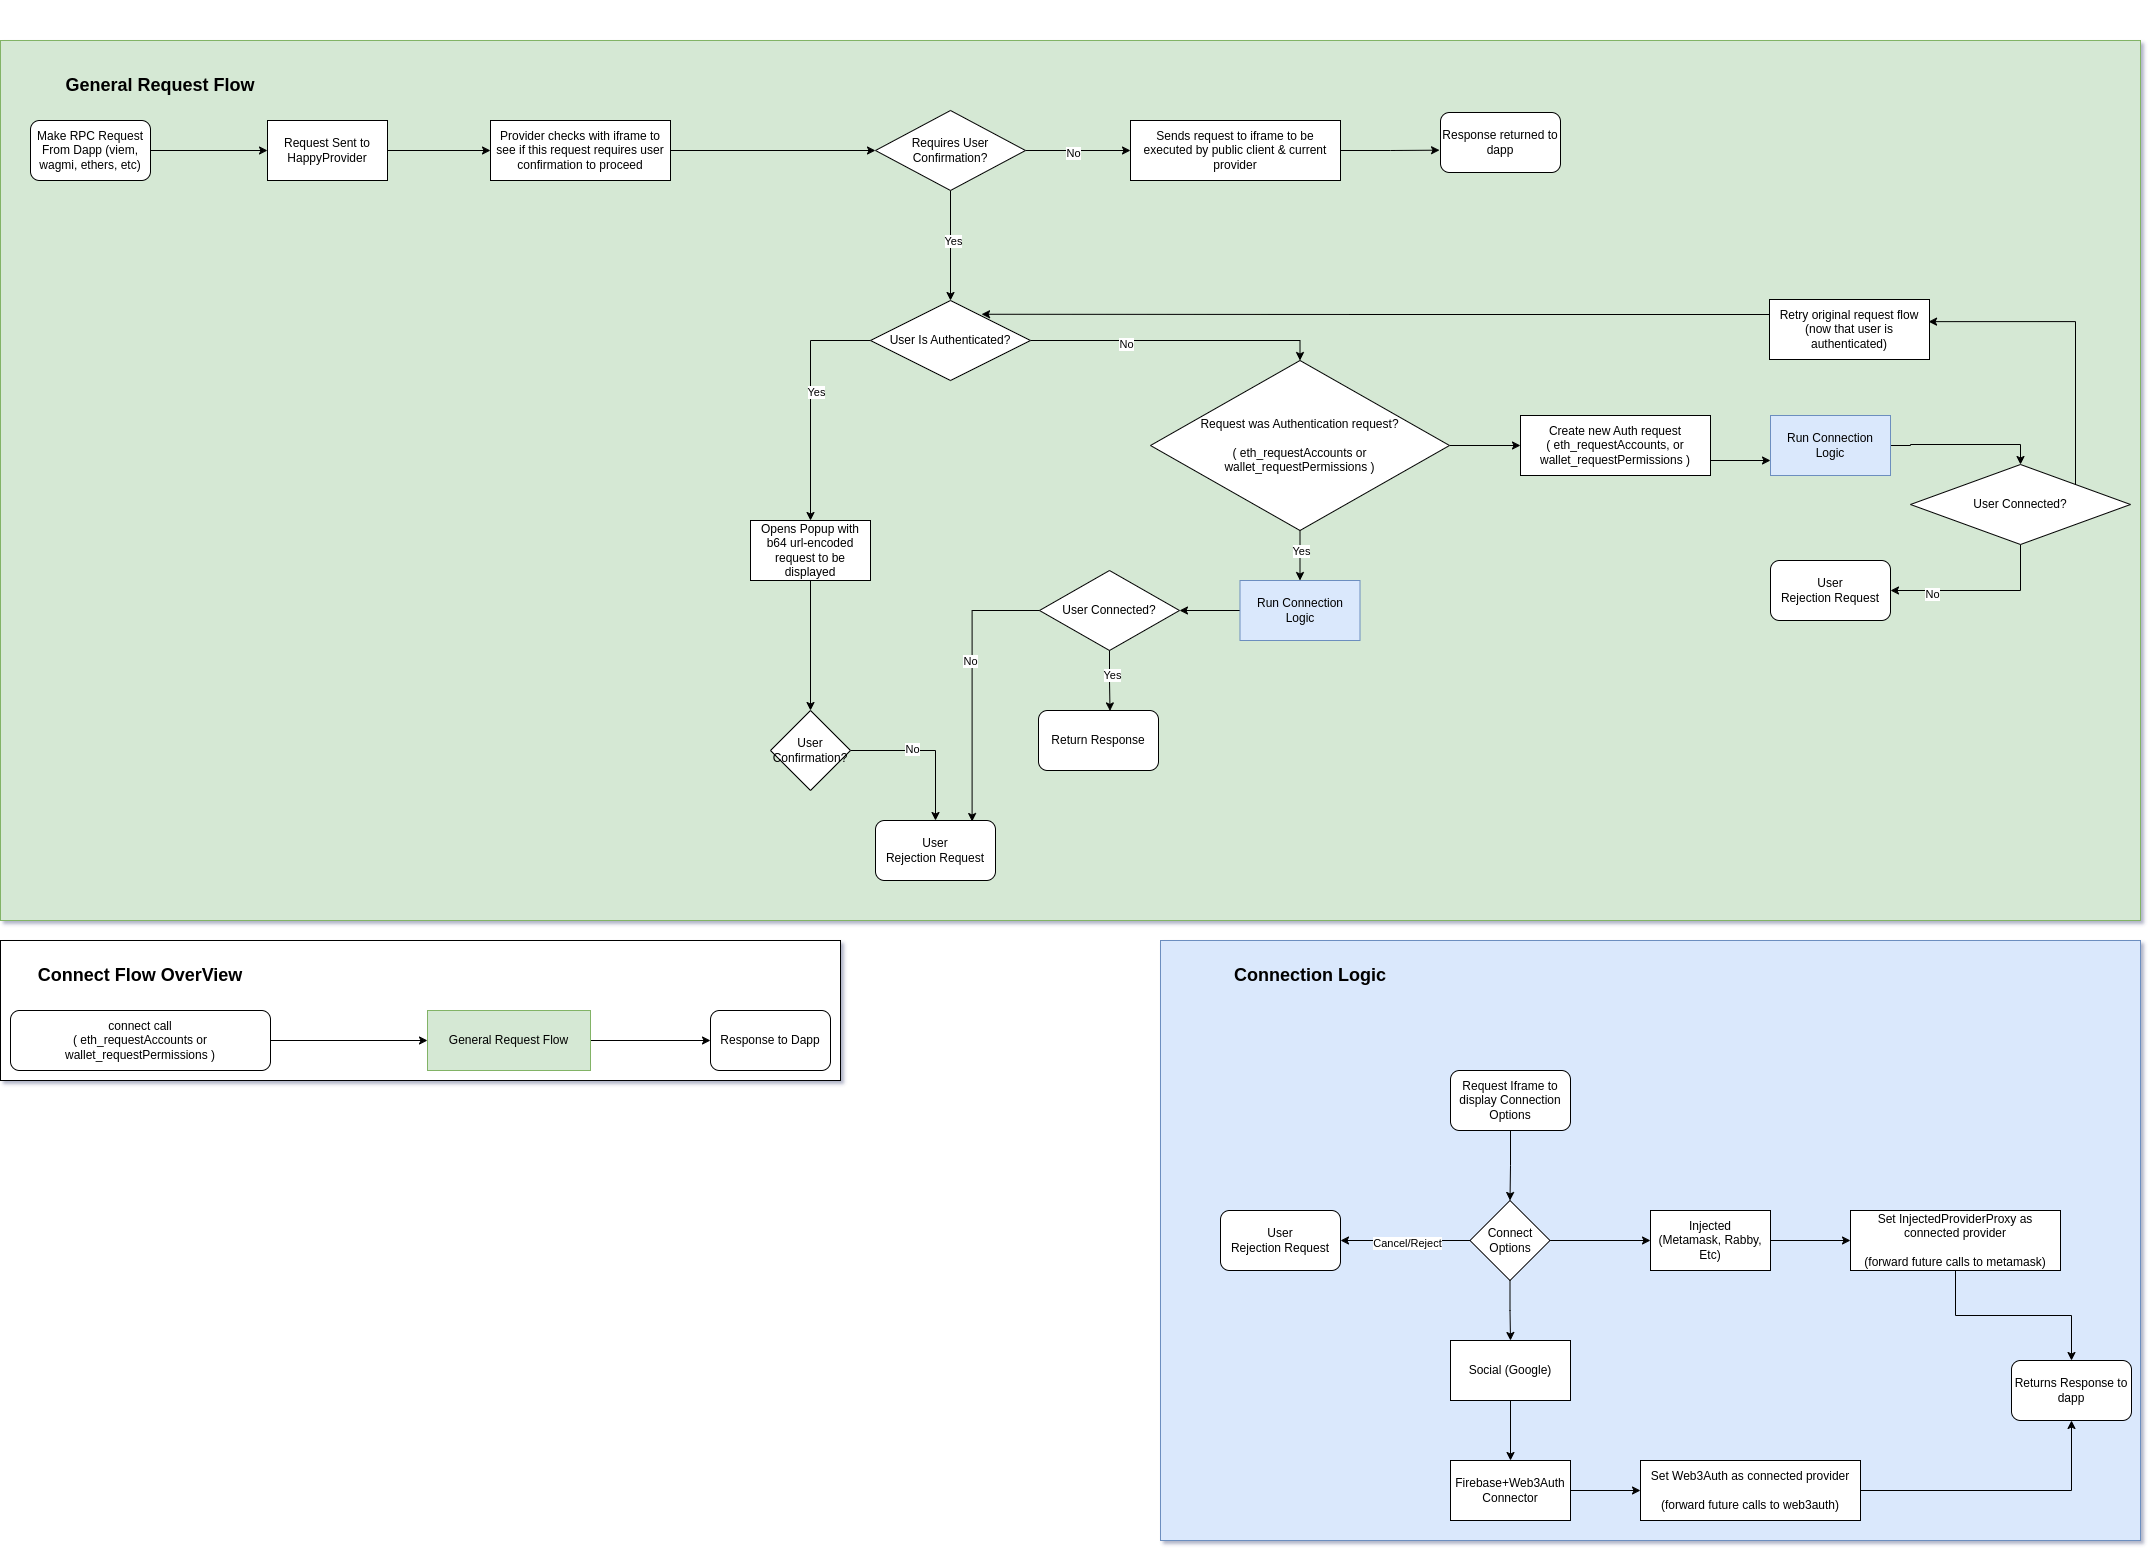
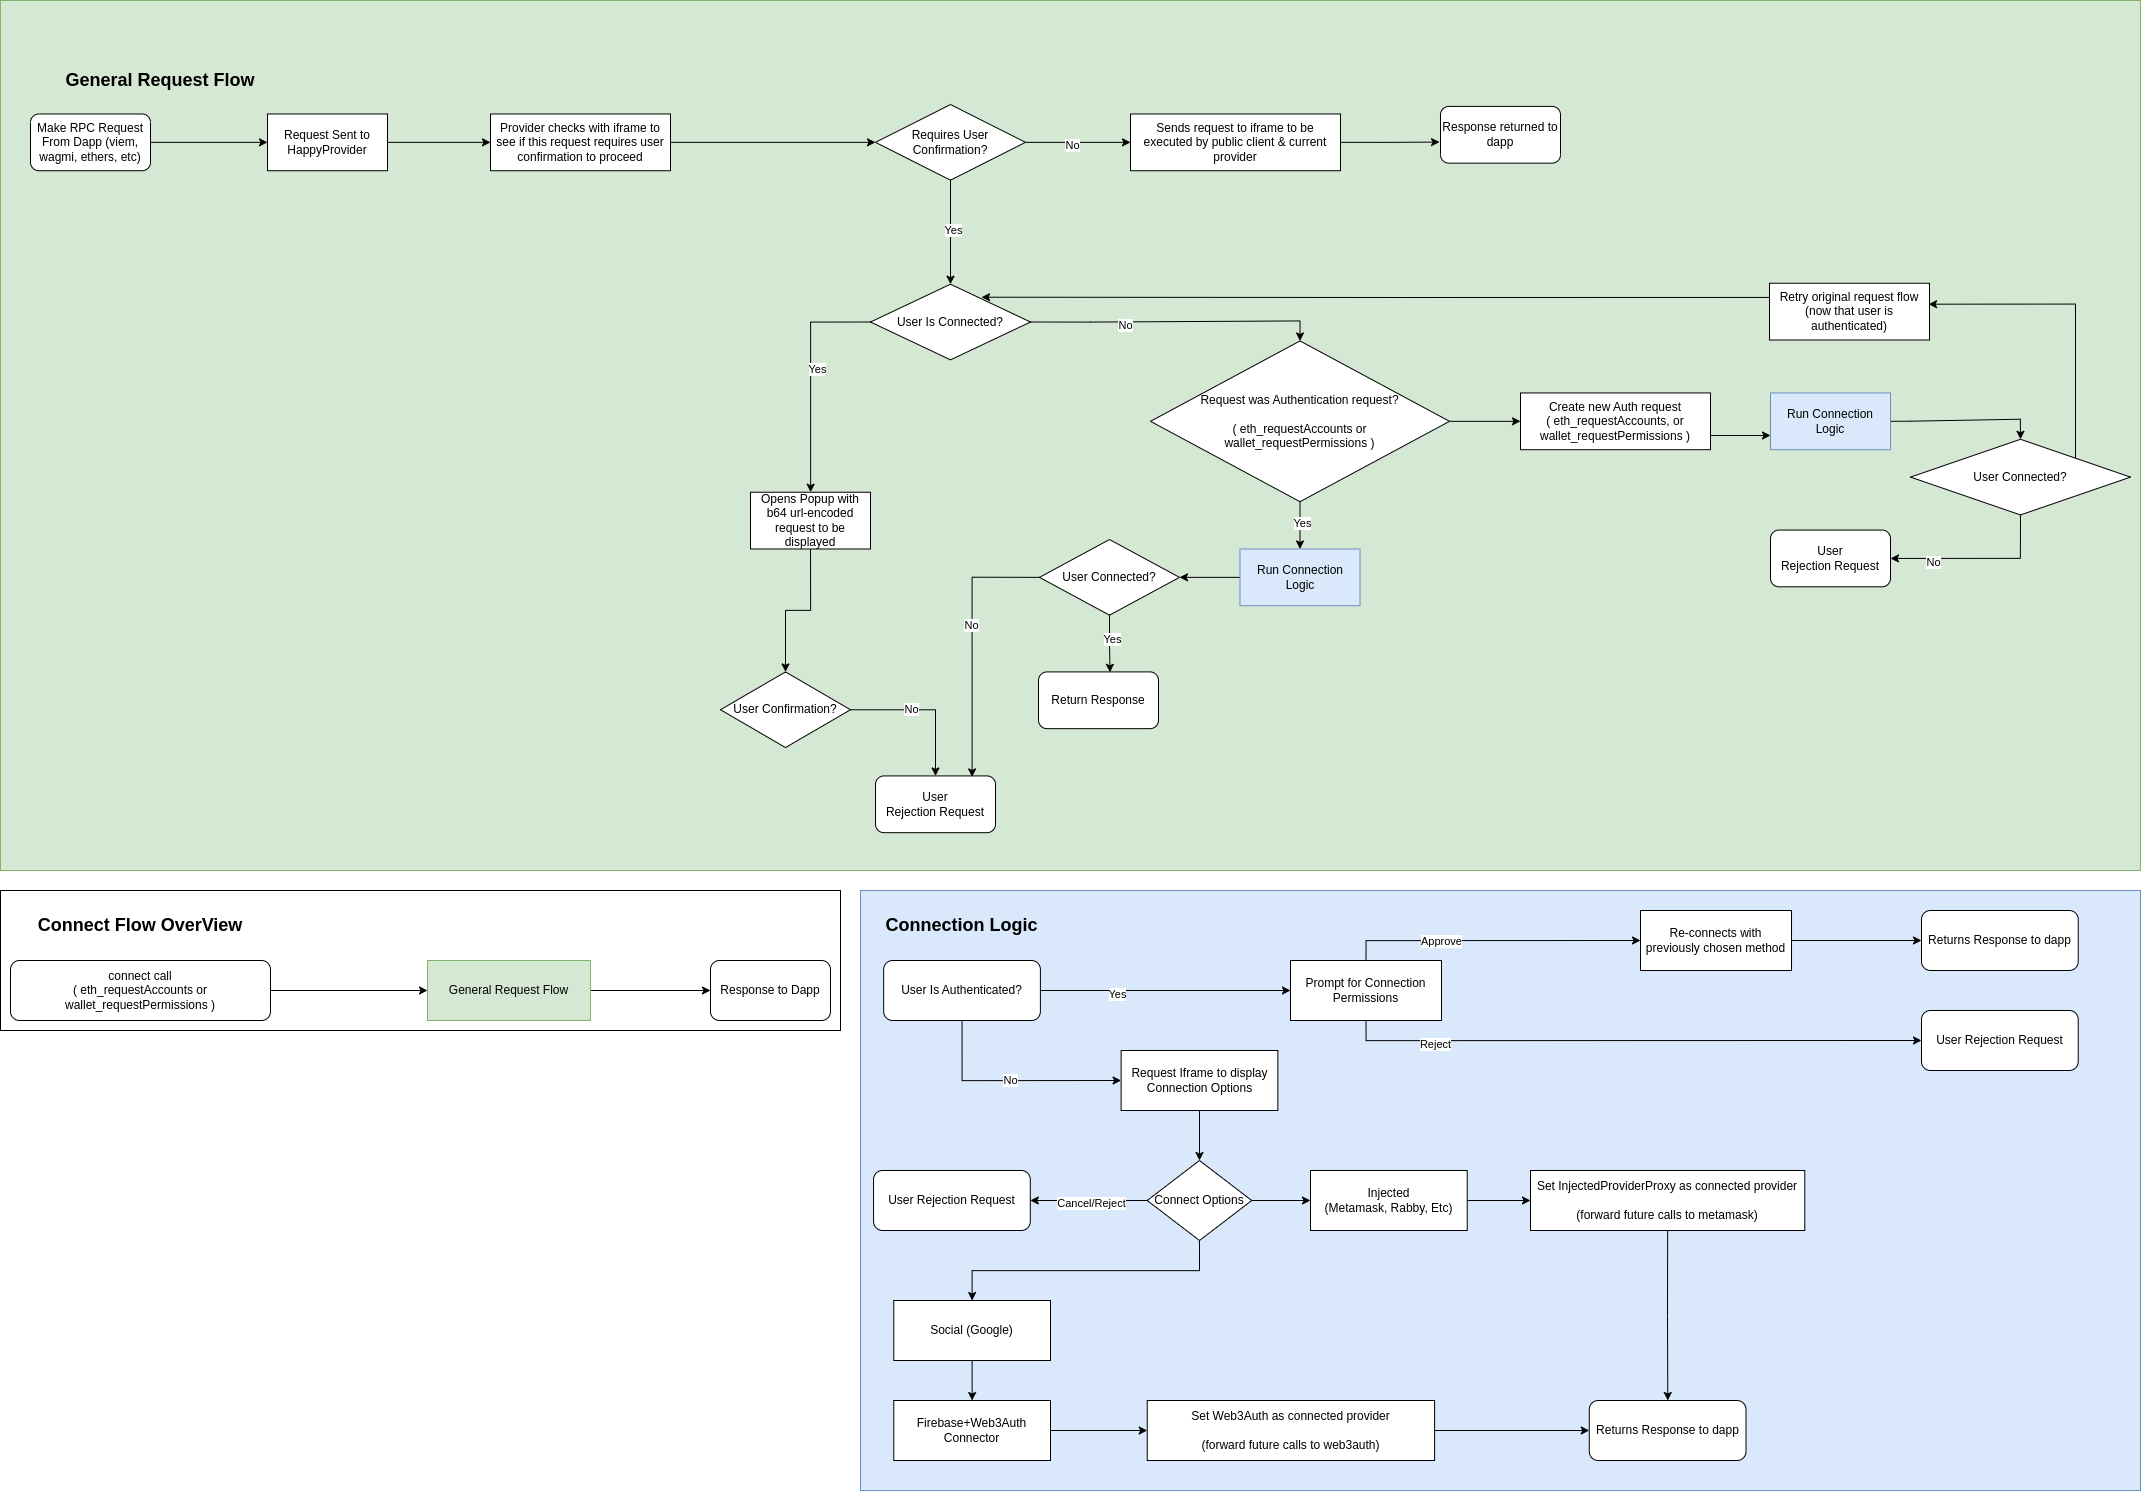
update connection flowchart

diff --git a/docs/connections.md b/docs/connections.md
@@ -1,20 +1,58 @@
 # Connection Flow
 
+<!-- TOC -->
+* [Connect Flow Diagram](#diagram)
+* [Access Methods](#access-methods)
+    * [Direct Access](#direct-access)
+    * [App Access](#app-access)
+* [Connection Methods](#connection-methods)
+    * [Social Wallets](#social-wallets)
+    * [Injected Wallets](#injected-wallets)
+* [Connection Result](#connection-result)
+    * [Success](#success)
+    * [Failure](#failure)
+<!-- TOC -->
+
+## Diagram
+[![Connection Flow Diagram](./images/connection-flow.png)](./images/connection-flow.png)
+
+## Access Methods
+
+Wallet access falls into two categories, App Access and Direct Access. App access is the most common
+and is used when the wallet is embedded and accessed from within a third party app. Direct access is 
+when the wallet is visited directly and the wallet _is_ effectively the app. While in direct access 
+mode the terms authentication and connection are synonymous as one cannot exist without the other, 
+however when connected to an app they are distinct. It is possible to be authenticated with the 
+wallet however the app is not yet connected and is not aware of the user details and cannot process 
+sensitive operations without the users connection. When Authenticating in app mode, the wallet will 
+auto-connect to the current app. When visiting a subsequent app, the wallet will remain authenticated
+however the new app will still need to be connected.
+
+### Direct Access
+
 When accessing the wallet through its standalone interface, only the available authentication 
 methods (such as social logins and detected injected wallets) are accessible. No other actions can 
 be performed until a successful connection is established.
 
-When accessing from an app (via the Happy Orb), the orb will indicate that it is not connected, and 
+### App Access
+
+When accessing from an app (via the Happy Orb), the orb will indicate that it is not authenticated, and 
 only public actions such as `eth_getBlock` will be processed immediately. If a wallet action such as
 `personal_sign`, `eth_requestAccounts`, or `eth_sendTransaction` is requested from the app, a
 `WalletVisibility` message is sent via the event bus to signal to the wallet that it should 'open'.
 This message forwards to the wallet web-component which expands to display the authentication methods 
 described above when viewing the wallet directly as a standalone.
 
+## Connection Methods
+
+### Social Wallets
+
 When a Social Wallet selection is made (either embedded through an app or direct wallet access) the 
 wallet initiates a standard oauth flow, and receives a JWT from the login provider, which is then 
 used to instantiate a Web3Auth provider instance. This provider will be used to process and sign all 
 future RPC requests until logout or disconnect.
+
+### Injected Wallets
 
 When an Injected Wallet is selected while accessed through an app, the wallet will emit the [rdns](https://eips.ethereum.org/EIPS/eip-6963#rdns)
 of the chosen wallet to the `InjectedWalletWrapper` app-side, where the appropriate EIP-1193 Provider 
@@ -24,13 +62,19 @@ any future requests by forwarding them to `InjectedWalletWrapper`. If the iframe
 directly and not through an app, then the original user-selected provider will simply be used to 
 execute requests directly.
 
-When no selection is made and the user instead closes the popup, or fails to login, a 
-`UserRejectionException` is thrown and if the prompt was initiated by a protected RPC request, this
-request will be rejected. If the prompt was simply initiated via the user opening the wallet, then 
-the wallet will close and no actions need to be taken.
+## Connection Result
+
+### Success
 
 Once the authentication is successful, a message is sent from the iframe to the app (if available) 
 to close the wallet, and if the original request requires signing (e.g. `personal_sign` or
 `eth_sendTransaction`) then the connected wallet will prompt for user confirmation. If the request
 results can be derived without a user signature (as is sometimes the case for `eth_requestAccounts`) 
 then the results will be responded with directly.
+
+### Failure
+
+When no selection is made and the user instead closes the popup, or fails to login, a 
+`UserRejectionException` is thrown and if the prompt was initiated by a protected RPC request, this
+request will be rejected. If the prompt was simply initiated via the user opening the wallet, then 
+the wallet will close and no actions need to be taken.
